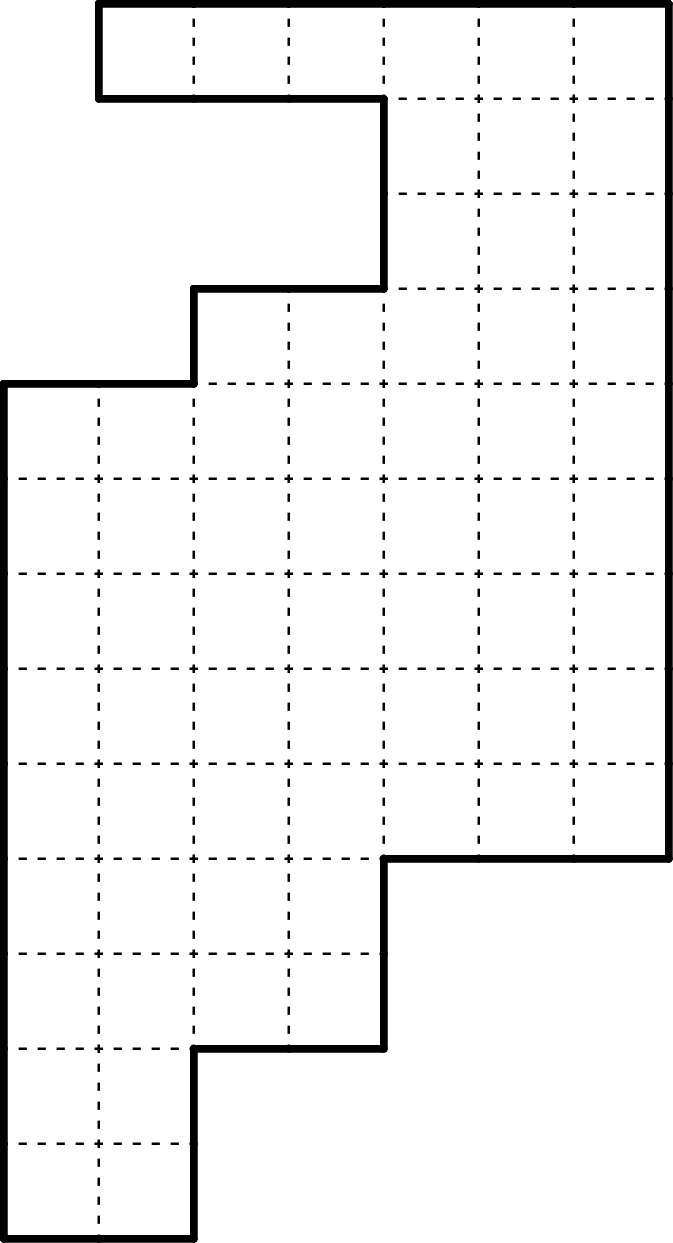
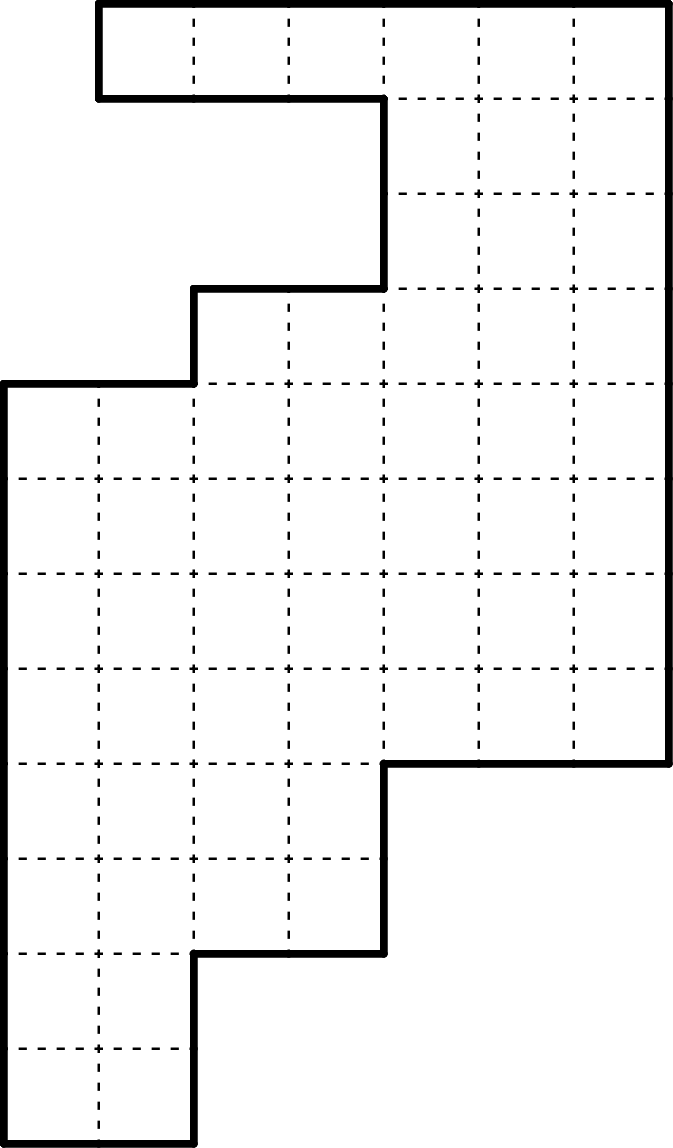
Bug fix: changed puzzle to the intended one which has a solution

diff --git a/index.html b/index.html
@@ -82,7 +82,7 @@
   </td>
   <td width=20></td>
   <td align="center">
-  <a href="https://git.io/JUtY9" target="_blank"><img srcset="12.png 4000w" alt="Puzzle 12"></a><br>
+  <a href="https://git.io/JTbea" target="_blank"><img srcset="12.png 4000w" alt="Puzzle 12"></a><br>
   12 (3 colors)
   </td>
   </tr>
